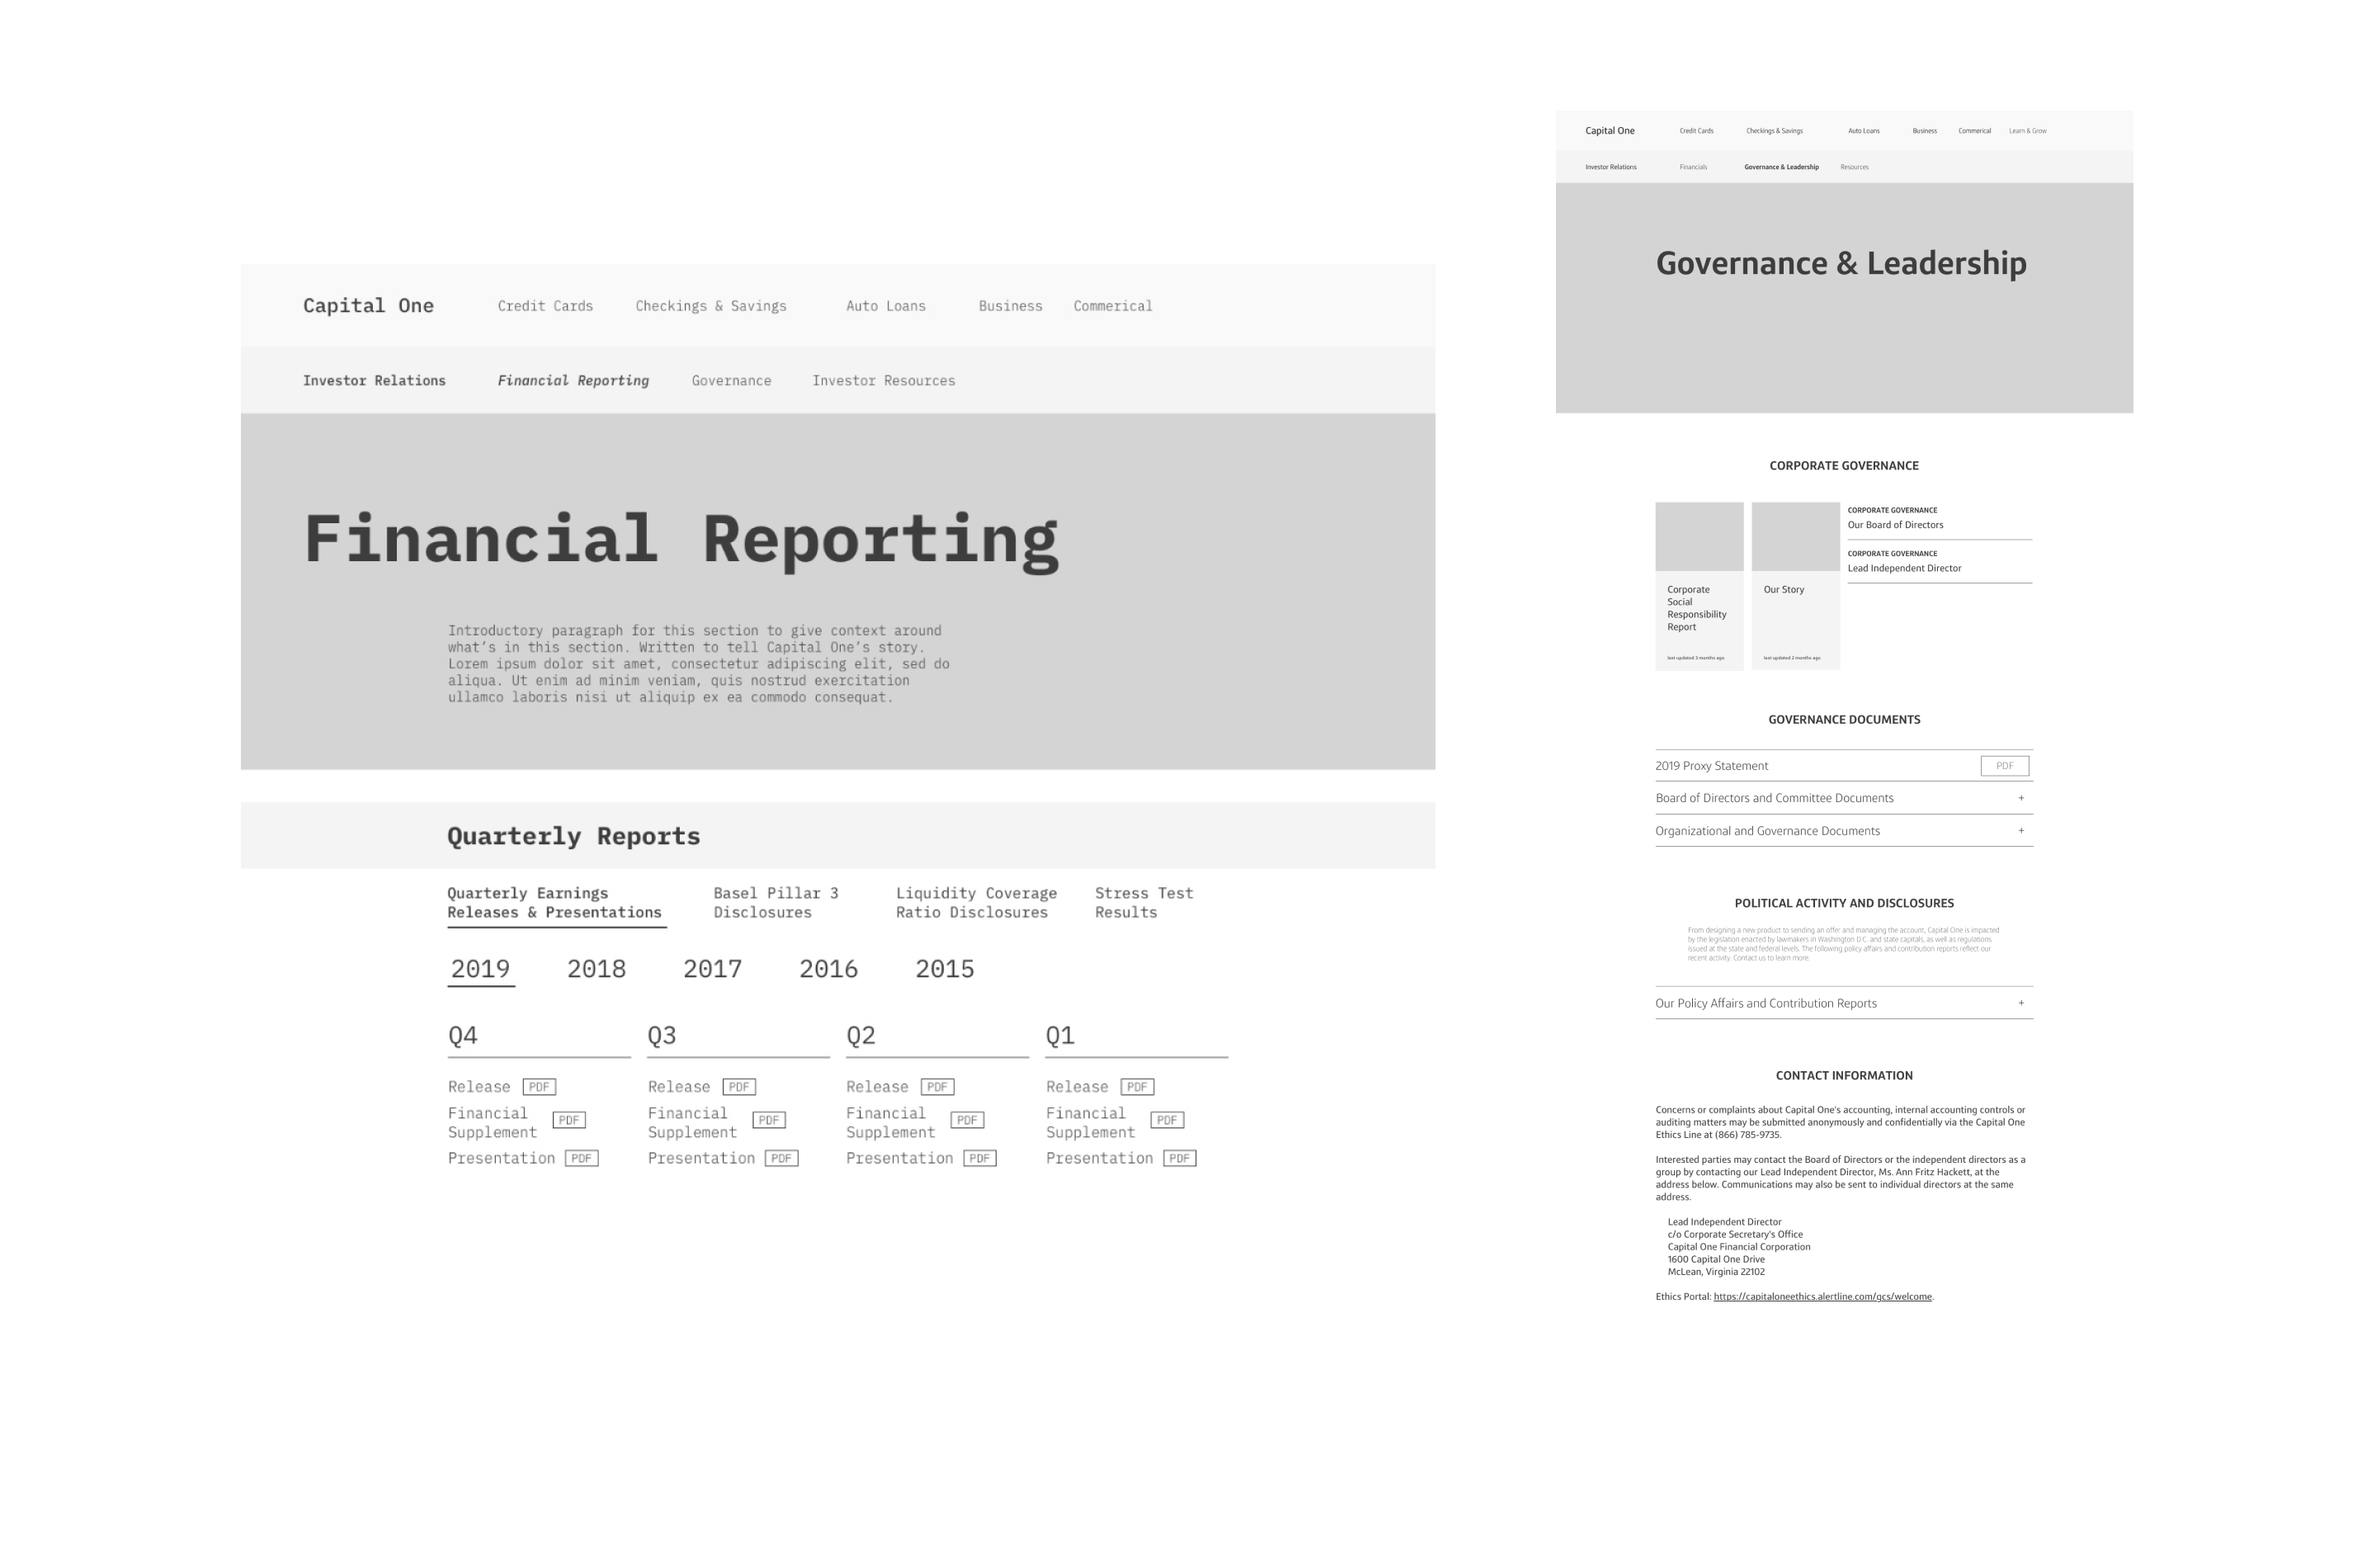
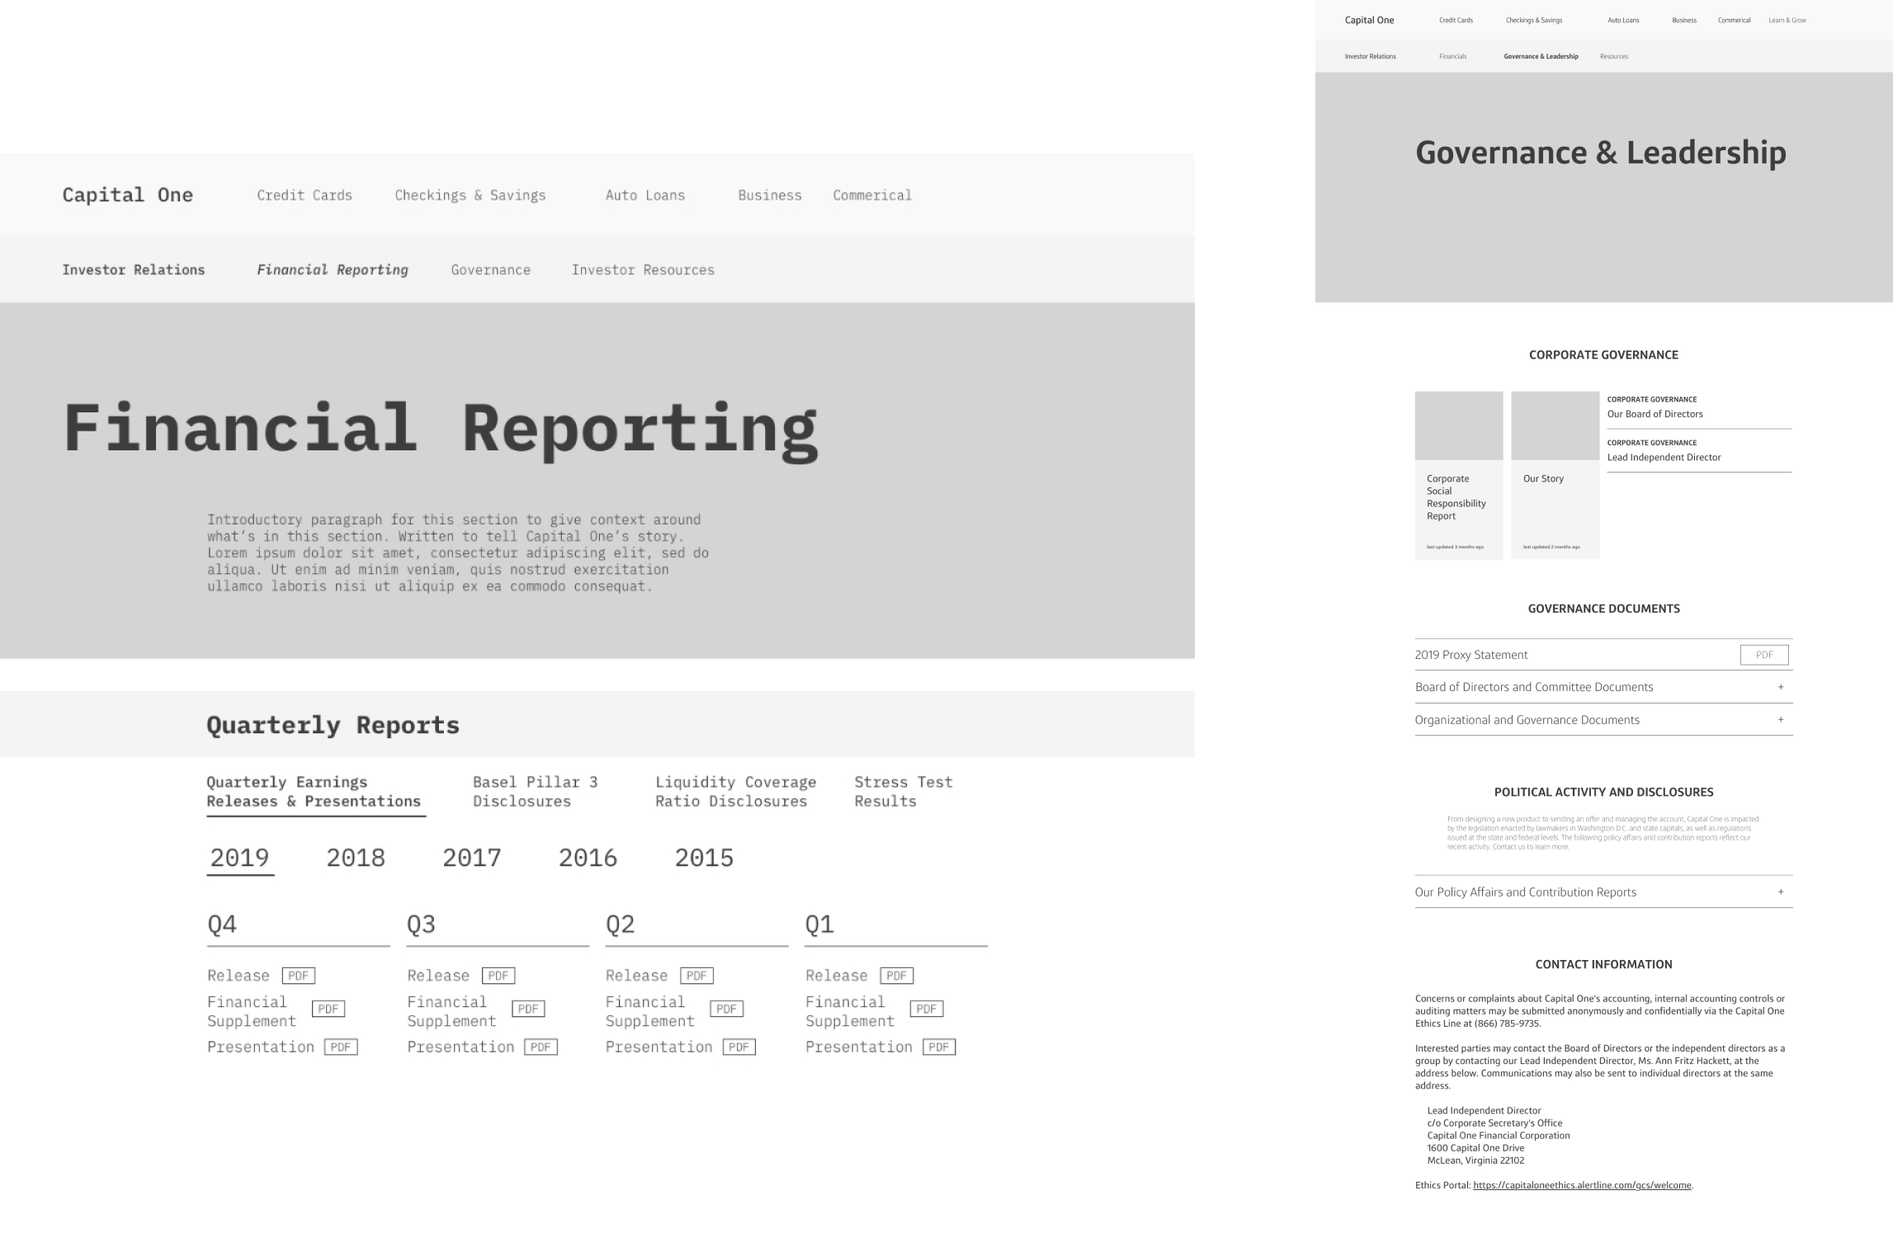
Updates case study images and styling

diff --git a/ir_pages.html b/ir_pages.html
@@ -23,38 +23,47 @@
                     <p class="descrip">
                         Our existing investor relations page was outdated and extremely difficult to use, with conflicting layers of navigation. I was tasked with bringing it up to parity with Capital One’s other pages and with improving its usability. My responsibilities in this project included strategy, information architecture, and wireframing. I handed off mid fidelity wireframes to a teammate who handled the visual design and another who was responsible for developing the site.
                     </p>
-                    <img class="scrollimage" src="css/IR1.png" alt="" onclick="window.open(this.src, '_blank');">
+                    <img class="scrollimage" src="css/IR1.png" alt="a screenshot of the old Capital One IR page" onclick="window.open(this.src, '_blank');">
+                    <p class="caption">The former Capital One IR page</p>
 
                     <p class="descrip-title">Design Jam</p>
                     <p class="descrip">
                         My first step in this project was to talk to our users. Because of the limited time scope, I wasn’t able to contact actual investors, but spoke with Product Owners in the company as proxies. Together with them, we mapped out the “jobs to be done” of our users so that we could build a site that fulfilled their needs.
                         We also used this time to take a full inventory of all the content on the site and have our user proxies help us categorize them. This helped us immensely in the IA stage of the project. It also helped to convince our partners that a reassessment of the IA was necessary, instead of just the visual facelift they had originally proposed.                    
                     </p>
-                    <img class="scrollimage" src="css/IR2.png" alt="" onclick="window.open(this.src, '_blank');">
+                    <img class="scrollimage" src="css/IR2.png" alt="two photos of sticky notes on a glass wall; the sticky notes outline user needs" onclick="window.open(this.src, '_blank');">
+                    <p class="caption">At left, our JTBDs stickies; at right, the beginnings of an IA diagram</p>
 
                     <p class="descrip-title">Information Architecture</p>
                     <p class="descrip">
                         Stickies in hand, I made my way to Sketch to build out an information architecture diagram for the site, keeping in mind the categorizations we had developed in our design jam. This was a lot of heavy, heads-down work with frequent validation from our IR and legal teams to make sure everything was in its right place.                    
                     </p>
-                    <img class="scrollimage" src="css/IR3.png" alt="" onclick="window.open(this.src, '_blank');">
+                    <img class="scrollimage" src="css/IR3.png" alt="an information arcthitecture diagram showing all the content on Capital One's IR page" onclick="window.open(this.src, '_blank');">
+                    <p class="caption">The gargantuan IA diagram, blurred to protect confidential information</p>
 
                     <p class="descrip-title">Sketching</p>
                     <p class="descrip">
                         After settling on and validating my IA diagram, I started sketching. Like my other projects, this was the stage at which I went for quantity over quality. I knew roughly the shape the pages would take because I had to hew to Capital One’s existing website style, but beyond that I was free to imagine new ways of presenting the information on the pages.                 
                     </p>
-                    <img class="scrollimage" src="css/IR4.png" alt="" onclick="window.open(this.src, '_blank');">
+                    <img class="scrollimage" src="css/IR4.png" alt="photos of drawings showing various webpage elements and a sketch of the financial results webpage" onclick="window.open(this.src, '_blank');">
+                    <p class="caption">Above, sketches for page components and navigational systems that didn’t make it into the wireframes; at right, an unfortunately stained sketch of the Financial Results page</p>
 
                     <p class="descrip-title">Wireframing</p>
                     <p class="descrip">
                         After validating one of the directions I’d chosen to go in during my sketching, I began to create wireframes. I worked within Capital One’s existing design system, but also created some components that I thought benefitted this particular use case if none like them existed in the system.                   
                     </p>
-                    <img class="scrollimage" src="css/IR5.png" alt="" onclick="window.open(this.src, '_blank');">
+                    <img class="scrollimage" src="css/IR5.png" alt="graysscale wireframes for Financial Reporting and Governance and Leadership pages including information on governance documents and contact information" onclick="window.open(this.src, '_blank');">
+                    <p class="caption">Above, an early version of the Financial Reporting page; at right, the final mid-fi version for the Governance & Leadership page</p>
 
                     <p class="descrip-title">The Outcome: The Final Site</p>
                     <p class="descrip">
                         The current site now has an updated information structure with navigation that aligns with our users’ goals, as well as a new (and hopefully improved) look that adheres to Capital One’s design system.                    
                     </p>
-                    <img class="scrollimage" src="css/IR6.png" alt="" onclick="window.open(this.src, '_blank');">
+                    <img class="scrollimage" src="css/IR6.png" alt="a screenshot of the Quarterly Earnings Releases information on Capital One's web page that gives users the option to download PDFs for the infomration" onclick="window.open(this.src, '_blank');">
+                    <p class="caption">Above, the Quarterly Earnings Releases component on the new page</p>
+                    <img class="scrollimage" src="css/IR65.png" alt="a screenshot of Capital One's Governance & Leadership webpage" onclick="window.open(this.src, '_blank');">
+                    <p class="caption">At right, the new Capital One Governance & Leadership page</p>
+
 
                 </div>
 

diff --git a/pmde_case_study.html b/pmde_case_study.html
@@ -40,8 +40,9 @@
                     <p class="descrip">
                         At this stage we settled on 2 visualization types and developed a few layout options.
                     </p>
-                    <img class="scrollimage" src="css/PMDE2.png" alt="" onclick="window.open(this.src, '_blank');">
+                    <!-- <img class="scrollimage" src="css/PMDE2.png" alt="" onclick="window.open(this.src, '_blank');"> -->
 
+                    <br>
                     <p class="descrip-title">Low-Fidelity Wireframing</p>
                     <p class="descrip">
                         From sketches, we moved on to lofi wireframes. Our goals with these rounds of iterations were to decide on and refine the layout of the tool, settle of the key, must-have features, and begin to work with real data so we could stress test our ideas.
@@ -52,7 +53,8 @@
                     <p class="descrip">
                         By the end of that process we had settled on layout and key features, including filters panel and refined our visualizations.
                     </p>
-                    <img class="scrollimage" src="css/PMDE3.png" alt="" onclick="window.open(this.src, '_blank');">
+                    <img class="scrollimage" src="css/PMDE3.png" alt="a screenshot of a wireframe using mostly blues to show a box-and-whisker plots of ENERGY STAR scores for public service buildings organized by the year those buildings were built" onclick="window.open(this.src, '_blank');">
+                    <p class="caption">Early wireframes had additional visualizations alongside the main ones, but the clients decided this might be distracting. This example also shows an extremely simplified filtering experience.</p>
 
                     <p class="descrip-title">Mid- and High-Fidelity Wireframing</p>
                     <p class="descrip">
@@ -61,7 +63,8 @@
                     <p class="descrip">
                         Progressing those choices also allowed us to explore options for the design system we intended to use for the UI.
                     </p>
-                    <img class="scrollimage" src="css/PMDE4.png" alt="" onclick="window.open(this.src, '_blank');">
+                    <img class="scrollimage" src="css/PMDE4.png" alt="a screenshot of various different filters in various states of opening and closing, includingyear built, location, and operating characteristics" onclick="window.open(this.src, '_blank');">
+                    <p class="caption">Work during the mid-fidelity stage included iterating on specific features like the filters panel.</p>
 
                     <p class="descrip-title">The Outcome: Final Site</p>
                     <p class="descrip">
@@ -70,8 +73,12 @@
                     <p class="descrip"> 
                         After these final changes, we launched the site (available here: <a href="https://portfoliomanager.energystar.gov/dataExplorer/" target="_blank" rel="noopener noreferrer">ENERGY STAR Portfolio Manager Data Explorer</a>) and have been making continuous improvements, including adding new metrics and visualization types and optimizing for mobile.
                     </p>
-                    <img class="scrollimage" src="css/PMDE5.png" alt="" onclick="window.open(this.src, '_blank');">
-                    <img class="scrollimage" src="css/PMDE6.png" alt="" onclick="window.open(this.src, '_blank');">
+                    <img class="scrollimage" src="css/PMDE5.png" alt="a screenshot showing an example query in the PMDE tool in bar chart format showing ENERGY STAR scores by property type" onclick="window.open(this.src, '_blank');">
+                    <p class="caption">This screenshot shows an example query in chart format showing ENERGY STAR scores by property type.</p>
+
+                    <img class="scrollimage" src="css/PMDE6.png" alt="a screenshot showing an example query in the PMDE tool in data table form showing Site EUI by Climate Zone and Year Built" onclick="window.open(this.src, '_blank');">
+                    <p class="caption">This screenshot show an example query in data table form showing Site EUI by Climate Zone and Year Built.</p>
+
 
                 </div>
 

diff --git a/css/style.css b/css/style.css
@@ -38,19 +38,32 @@ div {
 }
 
 #case-study .descrip-title {
-    margin: 0 auto;
+    margin: 5% auto 0 auto;
     width: 55%;
     font-weight: 700;
     font-size: 1.5rem;
 }
 
 #case-study .descrip {
-    margin: 0 auto;
+    margin: 0 auto 20px auto;
     width: 55%;
+}
+
+#case-study .caption {
+    font-style: italic;
+    font-size: .85rem;
+    margin: 0 auto 100px auto;
+    width: 65%;
 }
 
 #case-study .scrolling {
     padding-top: 5%;
+}
+
+#case-study .scrollimage {
+    display: block;
+    width: 65%;
+    margin: 2.5% auto 1.5% auto;
 }
 
 #main-subpage {
@@ -379,6 +392,11 @@ img {
     
     #case-study .scrolling {
         padding-top: 5%;
+    }
+
+    #case-study .scrollimage {
+        margin: 0 auto;
+        width: 100%;
     }
 
     #main-subpage {
